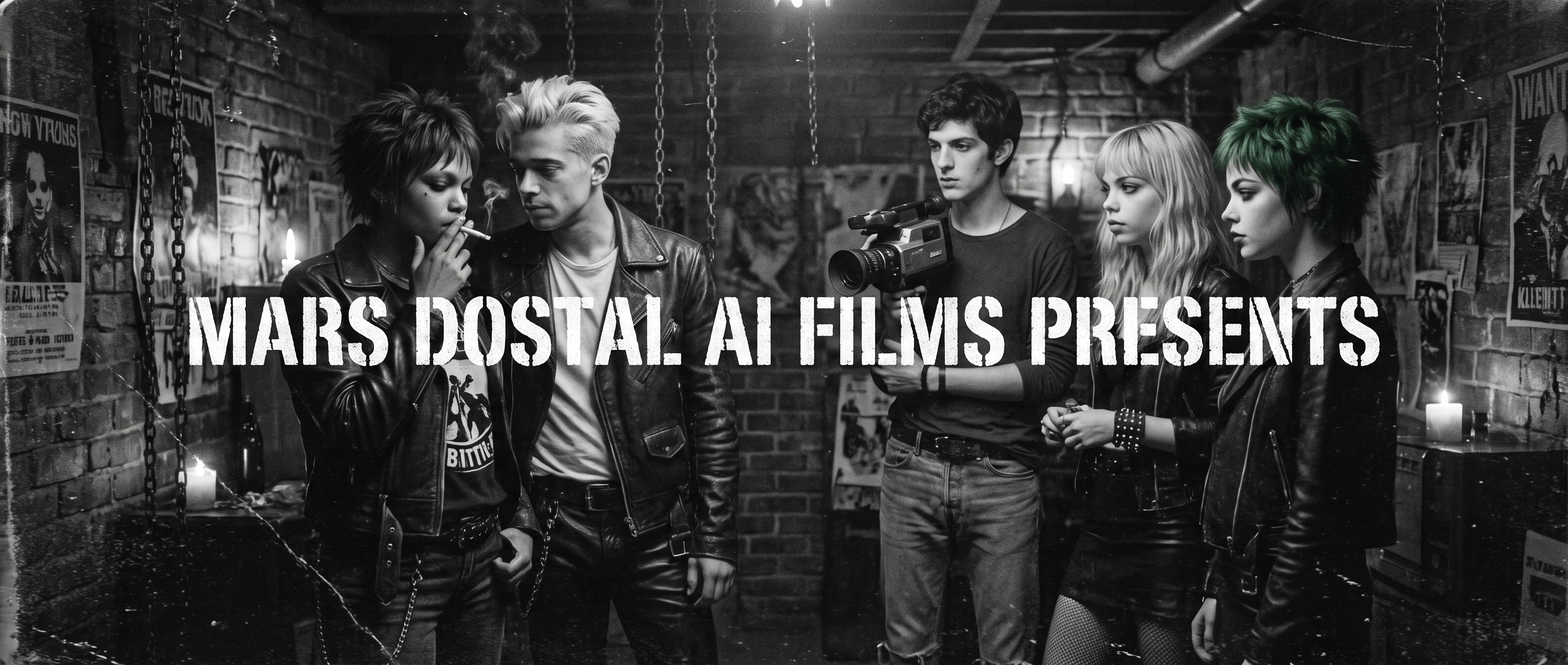
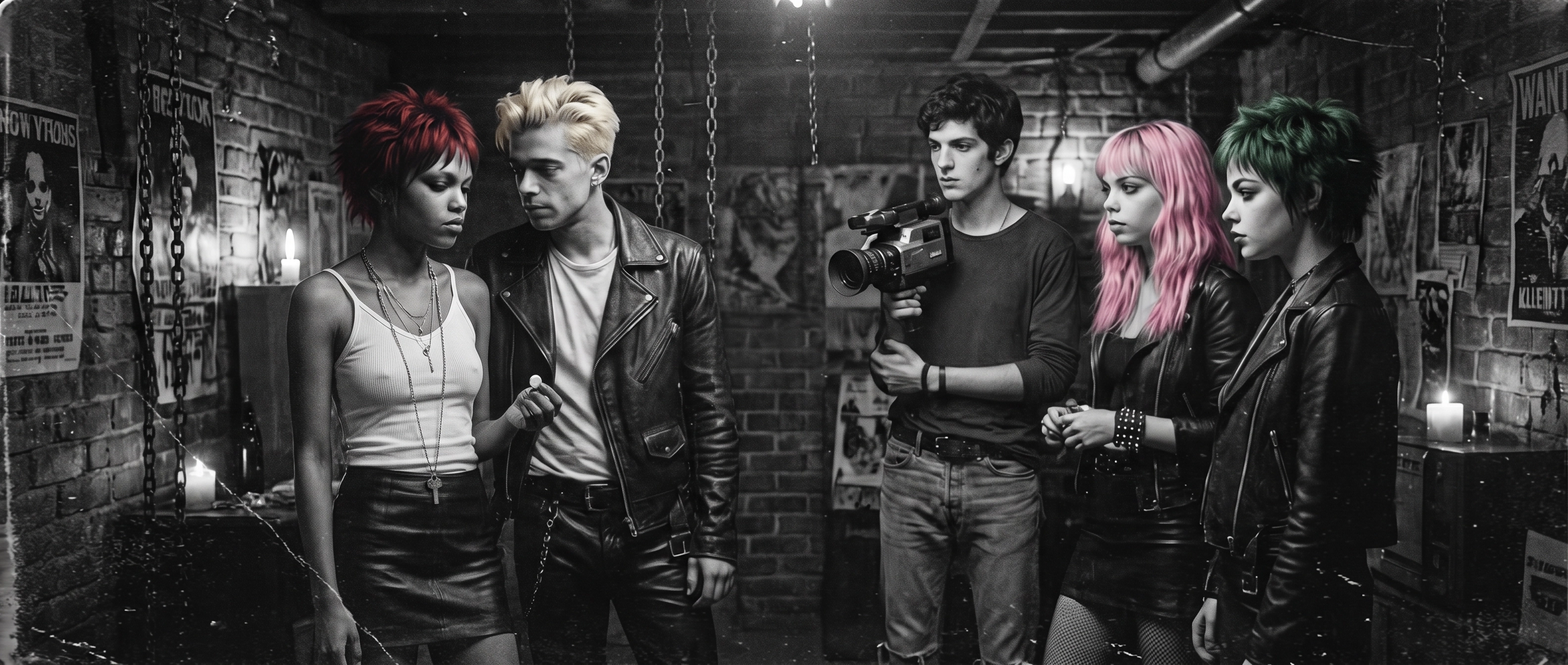
Correct index.html typo and update images

diff --git a/index.html b/index.html
@@ -182,7 +182,7 @@
                 <div class="section-heading">WHAT: The World of Subatomika</div>
                 <p>SUBATOMIKA – EPISODE ONE: PARTY CRASHERS is a visceral punk subculture sci-fi thriller set right after Argentina ended a military dictatorship. It’s Friday, October 10, 1986. 3:00 AM in Buenos Aires. The nightmare is over, but the paranoia is still baked into the concrete.</p>
                 <p>The story follows a crew of cynical, underground young adults—Verushka, Rolly Bombón, Dana Red, Martu, and Marcel L—crashing parties in Palermo Viejo. They’re dressed in black leather, torn nylon, and spiked green hair, living like there’s no tomorrow. And they might be right. Because it’s Day Zero. The timeline is liquefying around them, changing and collapsing into something unrecognizable. A crew of stranded aliens are altering the past, rewriting reality to cover their tracks before human intelligence agencies can capture and weaponize them.</p>
-                <p>More than a visual adaptation of my original novel, Subatomika 1986; this is a time capsule, an attempt to let you look into the past and imagine its future the way Verushka does. It’s about the reckless, uncompromised energy of youth colliding with a massive, terrifying conspiracy. The visuals capture the gritty, fast-paced, punk-rock cadence of a generation that refused to stay quiet, set to a heavy synth-and-bass soundtrack composed by Votrox and myself.</p>
+                <p>More than a visual adaptation of my original novel, Subatomika 1986, this is a time capsule, an attempt to let you look into the past and imagine its future the way Verushka does. It’s about the reckless, uncompromised energy of youth colliding with a massive, terrifying conspiracy. The visuals capture the gritty, fast-paced, punk-rock cadence of a generation that refused to stay quiet, set to a heavy synth-and-bass soundtrack composed by Votrox and myself.</p>
             </div>
 
             <!-- Image placed below the WHAT section -->
